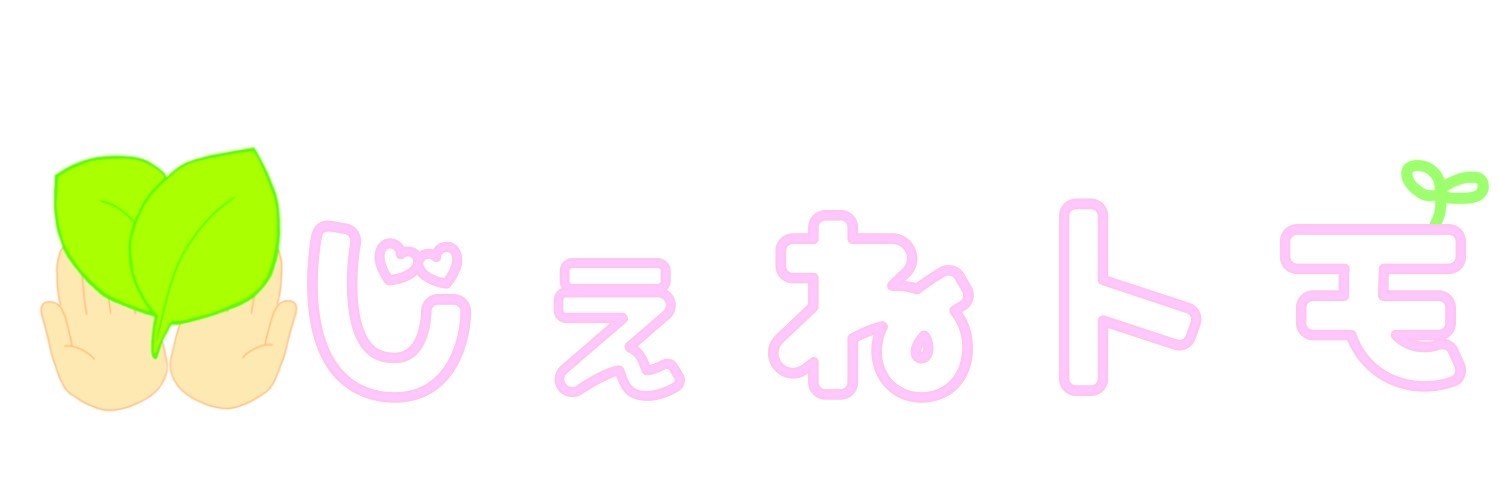
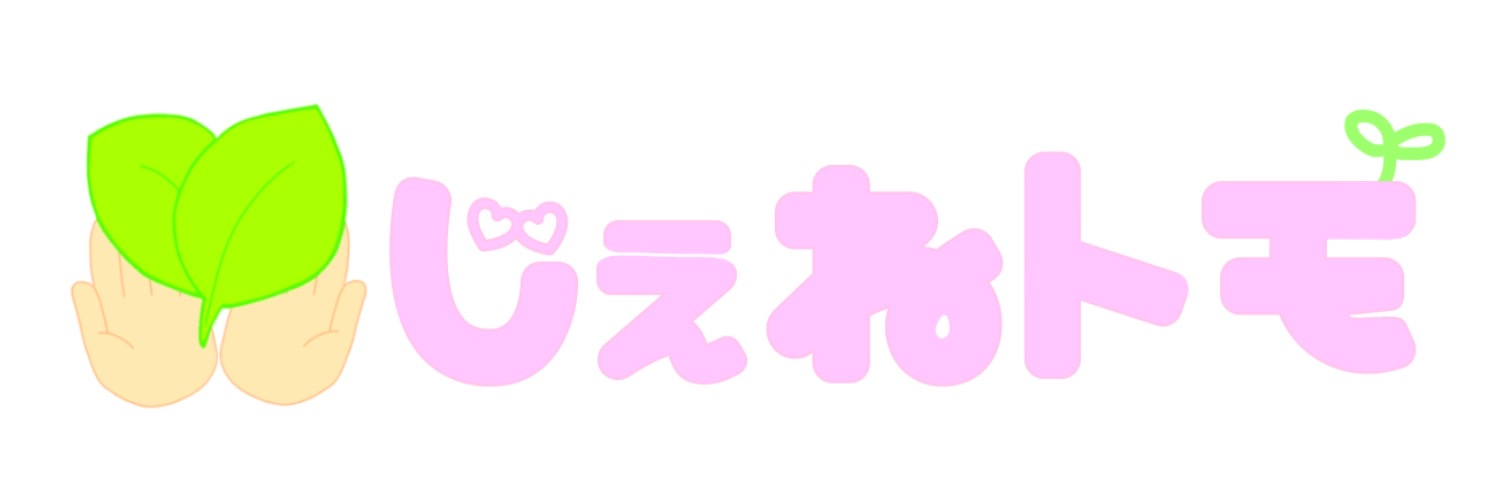
update

Changed region(s): [[0.0, 0.21, 1.0, 0.84]]

diff --git a/templates/top.html b/templates/top.html
@@ -6,7 +6,7 @@
      <img src="/static/images/icon.jpg" width="250px">
      <h3>鈴木総合研究所</h3>
      <p><br></p>
-     <h4>Papa(仮)は、お年寄りとそのアシスタントとのマッチングアプリです。AI分析によってお年寄りがこのサービスを使う必要性を判断します。</h4>
+     <h4>じぇねトモは、お年寄りとそのアシスタントとのマッチングアプリです。AI分析によってお年寄りがこのサービスを使う必要性を判断します。</h4>
      <p><br></p>
      <h3>まずはAI分析</h3>
      <h4>お年寄りの情報を入力し、今後要介護になる可能性を分析します。</h4>

diff --git a/app.py b/app.py
@@ -1,7 +1,6 @@
 from flask import Flask
 from flask import render_template,request,redirect
 from flask_sqlalchemy import SQLAlchemy
-from datetime import datetime
 from werkzeug.security import generate_password_hash,check_password_hash
 from flask_bootstrap import Bootstrap
 import os
@@ -9,13 +8,12 @@ from flask_login import UserMixin,LoginManager,login_user,logout_user,login_requ
 import AI_analyse
 
 
-app = Flask(__name__, static_url_path='/static')
+app = Flask(__name__, static_url_path='./static')
 app.config['SQLALCHEMY_DATABASE_URI'] = 'sqlite:///info.db'
 app.config['SECRET_KEY'] = os.urandom(24)
 app.config['SQLALCHEMY_TRACK_MODIFICATIONS'] = False
 db = SQLAlchemy(app)
 bootstrap = Bootstrap(app)
-
 
 login_manager = LoginManager()
 login_manager.init_app(app)
@@ -28,13 +26,11 @@ class Younger(db.Model): # 若者テーブル
     job = db.Column(db.String(100), nullable=False)
     hobby = db.Column(db.String(100), nullable=False)
 
-
 class User(UserMixin,db.Model): # ユーザテーブル
     id = db.Column(db.Integer, primary_key=True)
     username = db.Column(db.String(30),unique=True)
     password = db.Column(db.String(12))
     ai_survey = db.Column(db.String(5)) # 削除
-
 
 
 @login_manager.user_loader
@@ -65,7 +61,6 @@ def signup():
     else:
         return render_template("signup.html")
         
-
 @app.route('/login',methods=["GET","POST"]) # ログイン画面
 def login():
     if request.method == "POST":
@@ -84,7 +79,6 @@ def login():
 def logout():
     logout_user()
     return redirect("/")
-
 
 @app.route('/survey',methods=["GET","POST"]) # 調査画面
 def survey():
@@ -106,9 +100,8 @@ def survey():
             return render_template("dn_need.html")
         elif flag == [1]:
             return render_template("n_help.html",value = value)
-        else: # AI判定にエラーが出た場合は再入力
+        else:
             return render_template("survey.html")
-
     else:
         return render_template("survey.html")
 
